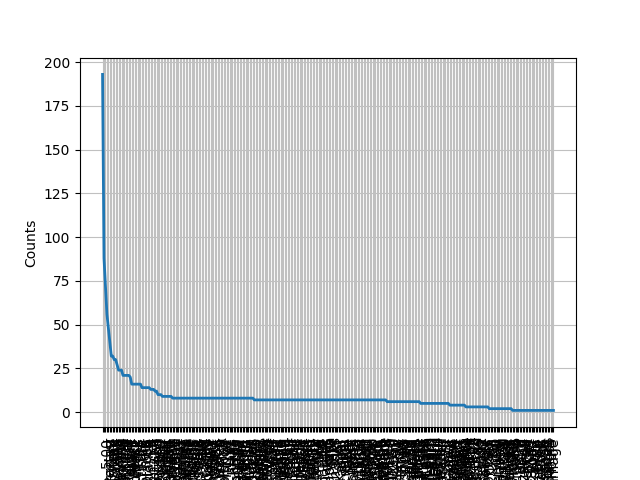
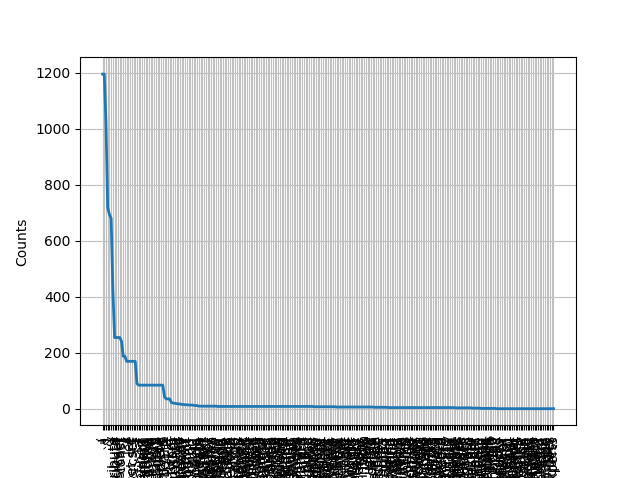
r

diff --git a/programs/graphPlotting.py b/programs/graphPlotting.py
@@ -31,7 +31,7 @@ def getSet(data):
     return s1
 
 
-url= "https://varanasi-software-junction.business.site/"
+url= "https://monkeylearn.com/"
 data = dd.downloadUrl(url)
-print(Rplot(data))
+print(SaveRplot(data))
 

diff --git a/File Handling/Handling.py b/File Handling/Handling.py
@@ -14,3 +14,6 @@ file = open('Text',"a")
 file.write("I am persuing my B.Tech from IIIT Bhagalpur.")
 file.write("hi")
 file.close()
+s=[1,2,3,4,5]
+p = s.all()
+
